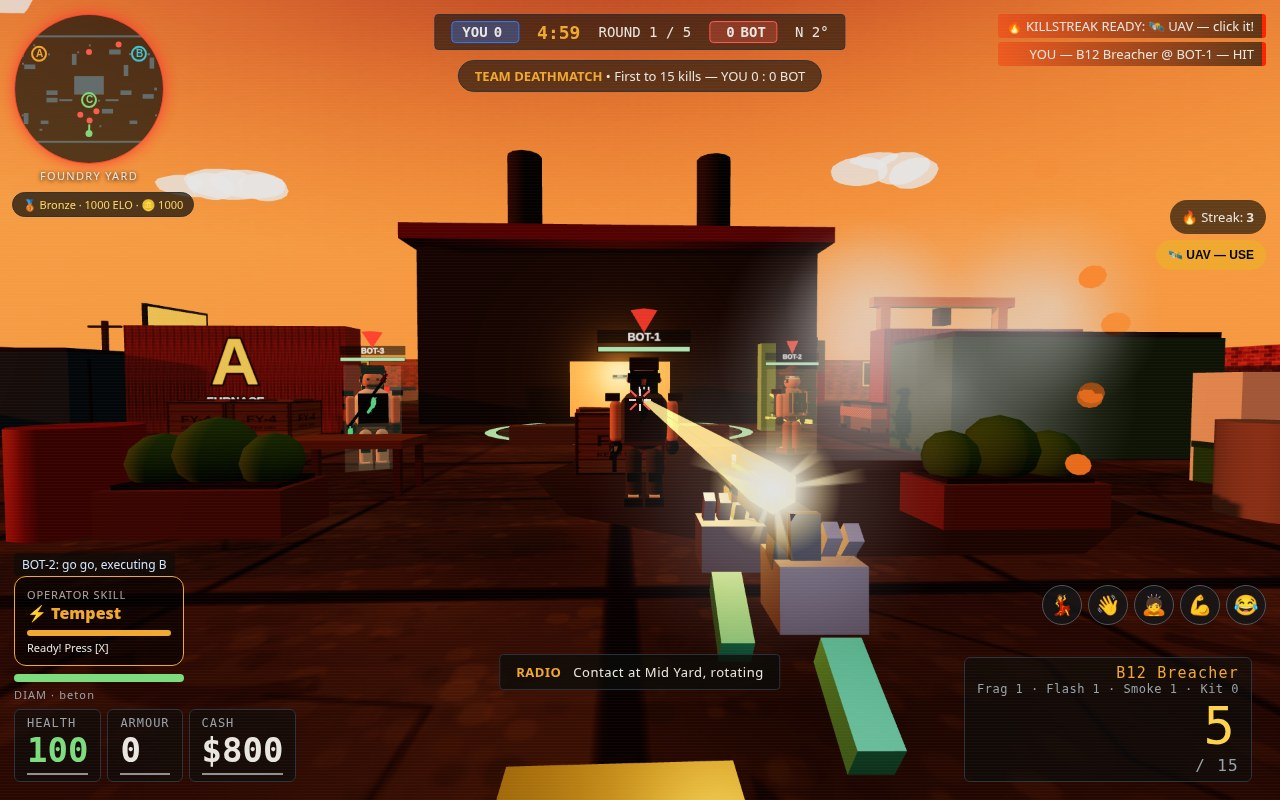
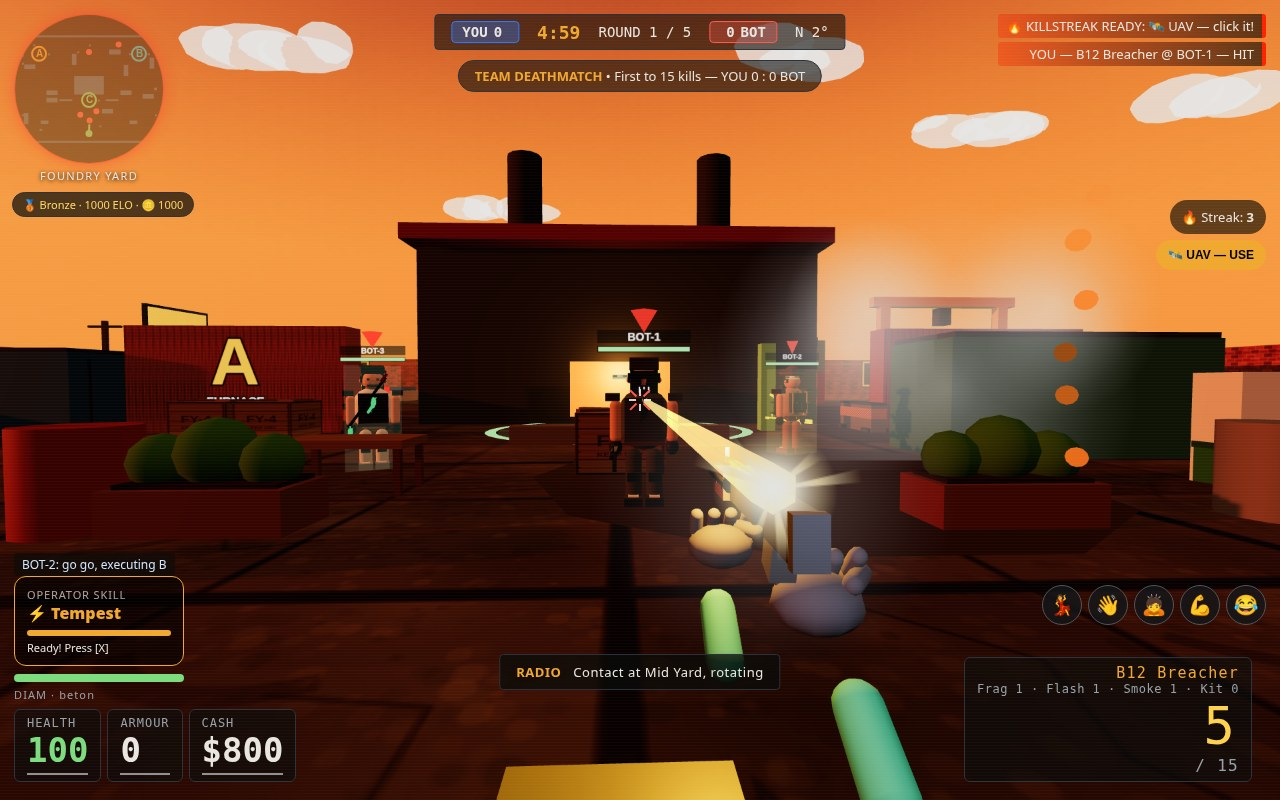
forge-fps hands-rounding pass: rounded first-person hands (capsule finger segments + knuckle balls + tapered tips, flattened-sphere palms, capsule thumbs, capsule forearms; same positions/curls/grip; noCamo kept; bot arms/hands already capsules+spheres, untouched); play-shot viewmodel close-up stagi

diff --git a/game/src/characters.js b/game/src/characters.js
@@ -734,7 +734,11 @@ export function createBotModel(weaponSkin, weaponId, name, charOpId = 'specter',
 export function createFirstPersonHands(S) {
   const group = new THREE.Group();
   const gloveM = new THREE.MeshStandardMaterial({ color: GLOVE_COLOR[S.charSkin] || 0x4a4a52, roughness: 0.9 });
-  const fingerM = new THREE.MeshStandardMaterial({ color: 0x5c5c66, roughness: 0.9 });
+  const fingerM = new THREE.MeshStandardMaterial({ color: 0x3f3f46, roughness: 1 });
+  // Palm/thumb material: glove colour darkened — the cool-white fill light
+  // sits ~30cm away and blasts a smooth sphere pale, so the base must be
+  // darker than the flat box it replaces.
+  const palmM = gloveM.clone(); palmM.color.multiplyScalar(0.62);
   const sleeveM = new THREE.MeshStandardMaterial({ color: 0x2e8b62, roughness: 0.85, emissive: 0x0a2e1c, emissiveIntensity: 0.25 });
   const gunM = new THREE.MeshStandardMaterial({ color: 0x2b2f33, roughness: 0.5, metalness: 0.5 });
   const barrelM = new THREE.MeshStandardMaterial({ color: 0x16181c, roughness: 0.35, metalness: 0.8 });
@@ -750,24 +754,40 @@ export function createFirstPersonHands(S) {
   // moves the hands together with the gun — the gun no longer slides out
   // of the grip when it kicks.
   const handsGroup = new THREE.Group(); group.add(handsGroup);
-  const handR = box(0.21, 0.16, 0.2, gloveM); handR.position.set(0.08, -0.2, -0.04); handsGroup.add(handR);
-  for (let i = 0; i < 4; i++) {
-    const f = box(0.038, 0.14, 0.05, fingerM);
-    f.position.set(0.015 + i * 0.052, -0.1, -0.03 - i * 0.004); f.rotation.x = 0.45 + i * 0.12; handsGroup.add(f);
-  }
-  const thumbR = box(0.04, 0.06, 0.12, gloveM); thumbR.position.set(0.16, -0.15, -0.03); thumbR.rotation.y = -0.6; handsGroup.add(thumbR);
-  const armR = box(0.095, 0.095, 0.24, sleeveM); armR.position.set(0.11, -0.38, 0.16); armR.rotation.x = 0.55; handsGroup.add(armR);
+  // ROUNDED HANDS (2026-11-16): no more boxes — palms are flattened
+  // spheres, fingers are 2 capsule segments + knuckle ball + tapered tip,
+  // thumbs are capsules, forearms are capsules. Same positions/curls as
+  // before, so grip + animation are unchanged.
+  const cap = (r, len, mat) => { const m = new THREE.Mesh(new THREE.CapsuleGeometry(r, len, 4, 10), mat); m.castShadow = true; return m; };
+  const ball = (r, mat) => { const m = new THREE.Mesh(new THREE.SphereGeometry(r, 10, 8), mat); m.castShadow = true; return m; };
+  const mkFinger = (parent, x, y, z, curl) => {
+    const fg = new THREE.Group();
+    fg.position.set(x, y, z); fg.rotation.x = curl;
+    const prox = cap(0.02, 0.05, fingerM); prox.position.y = -0.035; fg.add(prox);
+    const knuckle = ball(0.02, fingerM); knuckle.position.y = -0.068; fg.add(knuckle);
+    const dist = cap(0.017, 0.038, fingerM); dist.position.y = -0.096; dist.rotation.x = 0.55; fg.add(dist);
+    const tip = ball(0.015, fingerM); tip.position.set(0, -0.126, 0.02); fg.add(tip);
+    parent.add(fg);
+  };
+  const mkThumb = (parent, x, y, z, yaw) => {
+    const tg = new THREE.Group();
+    tg.position.set(x, y, z); tg.rotation.y = yaw;
+    const th = cap(0.022, 0.07, palmM); th.rotation.x = Math.PI / 2; tg.add(th);
+    const tip = ball(0.02, palmM); tip.position.set(0, 0, -0.055); tg.add(tip);
+    parent.add(tg);
+  };
+  const handR = ball(0.105, palmM); handR.scale.set(0.95, 0.62, 0.85); handR.position.set(0.08, -0.2, -0.04); handsGroup.add(handR);
+  for (let i = 0; i < 4; i++) mkFinger(handsGroup, 0.015 + i * 0.052, -0.1, -0.03 - i * 0.004, 0.45 + i * 0.12);
+  mkThumb(handsGroup, 0.16, -0.15, -0.03, -0.6);
+  const armR = cap(0.048, 0.15, sleeveM); armR.position.set(0.11, -0.38, 0.16); armR.rotation.x = Math.PI / 2 + 0.55; handsGroup.add(armR);
   // Left hand rides a subgroup so buildGun can slide it along the fore-end
   // per weapon class (pump on shotguns, handguard on rifles, grip on pistols).
   const gripL = new THREE.Group(); handsGroup.add(gripL);
-  const handL = box(0.21, 0.15, 0.2, gloveM); handL.position.set(-0.05, -0.21, 0); gripL.add(handL);
-  for (let i = 0; i < 4; i++) {
-    const f = box(0.038, 0.13, 0.05, fingerM);
-    f.position.set(-0.12 + i * 0.052, -0.11, 0.0 - i * 0.004); f.rotation.x = 0.45 + i * 0.12; gripL.add(f);
-  }
-  const thumbL = box(0.04, 0.06, 0.12, gloveM); thumbL.position.set(0.03, -0.16, 0); thumbL.rotation.y = 0.6; gripL.add(thumbL);
+  const handL = ball(0.105, palmM); handL.scale.set(0.95, 0.6, 0.85); handL.position.set(-0.05, -0.21, 0); gripL.add(handL);
+  for (let i = 0; i < 4; i++) mkFinger(gripL, -0.12 + i * 0.052, -0.11, 0.0 - i * 0.004, 0.45 + i * 0.12);
+  mkThumb(gripL, 0.03, -0.16, 0, 0.6);
   gripL.position.set(0, 0, -0.5);
-  const armL = box(0.095, 0.095, 0.24, sleeveM); armL.position.set(-0.08, -0.38, -0.3); armL.rotation.x = 0.6; handsGroup.add(armL);
+  const armL = cap(0.048, 0.15, sleeveM); armL.position.set(-0.08, -0.38, -0.3); armL.rotation.x = Math.PI / 2 + 0.6; handsGroup.add(armL);
   // Camo repaints the GUN only: hands + sleeves keep their colours.
   handsGroup.traverse(o => { if (o.isMesh) o.userData.noCamo = true; });
   // Gun (rebuilt per weapon below).

diff --git a/game/src/weapon.js b/game/src/weapon.js
@@ -27,8 +27,11 @@ export function createWeapon(scene, camera, S, audio, effects, cbs = {}) {
   ray.far = 120;
   // First-person hands + gun viewmodel attached to the camera.
   const hands = createFirstPersonHands(S);
-  hands.group.scale.setScalar(0.62);
-  hands.group.position.set(0.2, -0.16, -0.8);
+  // Shot-mode close-up (dossier play shot only): bigger viewmodel so the
+  // rounded hands read clearly. Gameplay always uses 0.62.
+  const shotPlay = new URLSearchParams(location.search).get('shot') === 'play';
+  hands.group.scale.setScalar(shotPlay ? 0.76 : 0.62);
+  hands.group.position.set(shotPlay ? 0.17 : 0.2, shotPlay ? -0.13 : -0.16, -0.8);
   camera.add(hands.group);
   const fillLight = new THREE.PointLight(0xdfe8ff, 1.0, 2, 2);
   fillLight.position.set(0.25, -0.05, -0.35);
